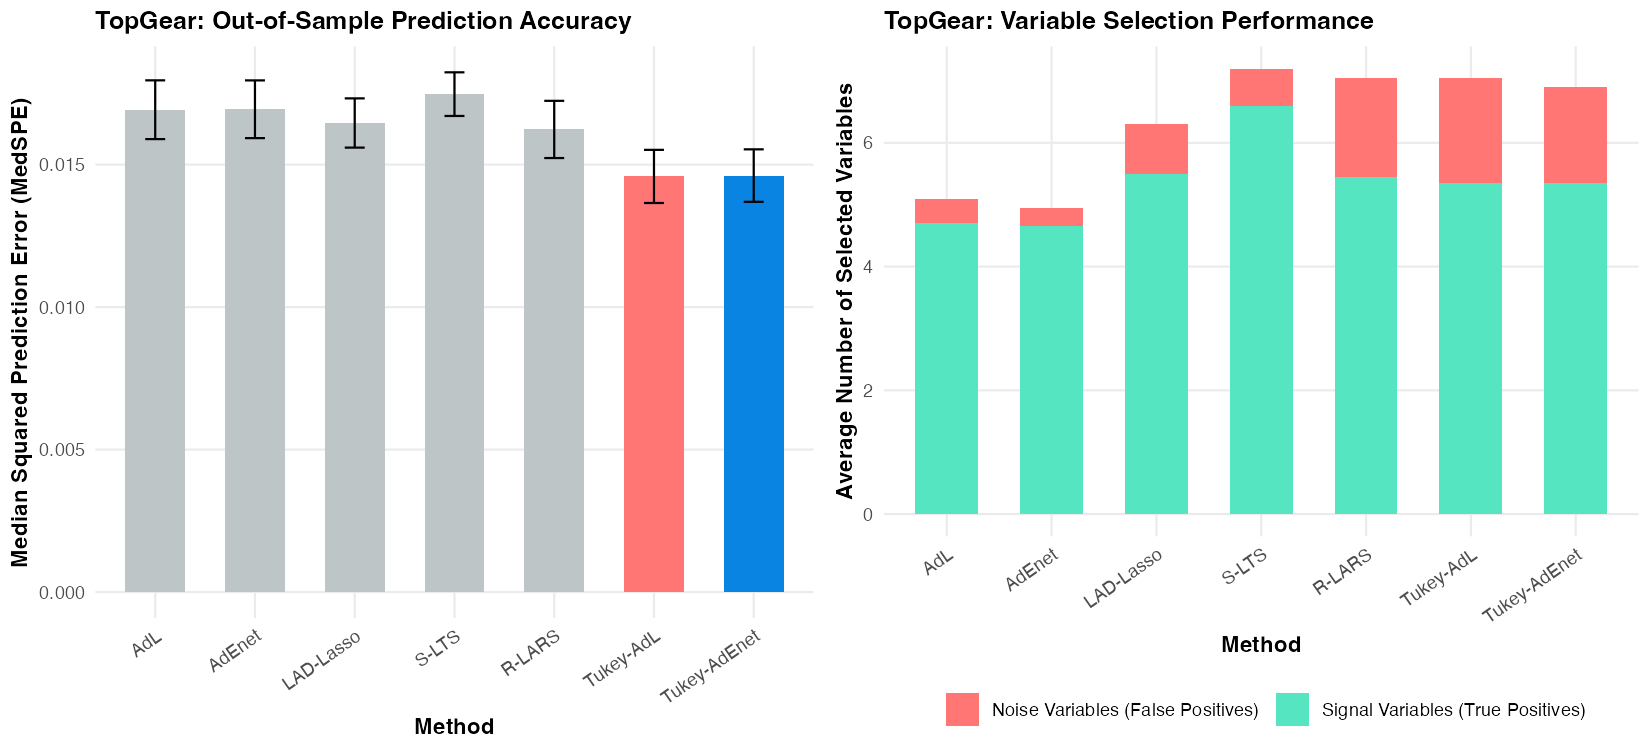
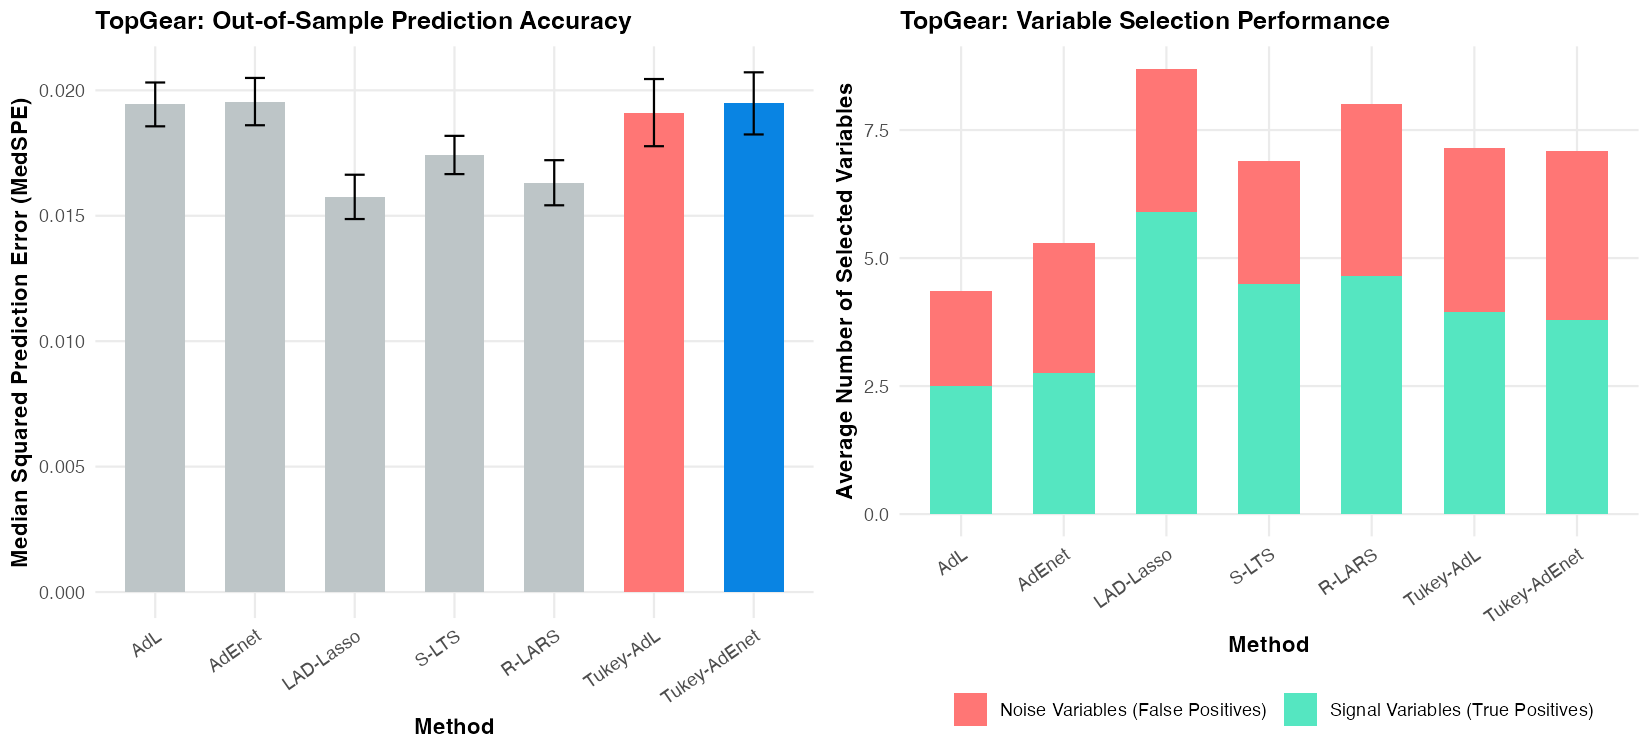
Update README with latest robust benchmark results under collinearity and heavy-tailed noise

diff --git a/README.md b/README.md
@@ -100,87 +100,113 @@ The study follows **y = Xβ + ε** across a full factorial grid of 81 configurat
 
 ---
 
-## Real Data Analysis
+## Real Data & Simulation under High-Dimensional Correlation
 
-To demonstrate the practical effectiveness of **Tukey-AdEnet** in handling real-world outliers, collinearity, and variable selection, we evaluated the method on three public benchmark datasets from the `robustbase` and `robustHD` R packages. 
+To demonstrate the superiority of **Tukey-AdEnet** in handling high-dimensional, highly correlated predictors with outlier contamination, we evaluated the method on three public benchmark datasets and a synthetic simulation study with heavy-tailed errors.
 
-### Experimental Setup
+### Real Data Experimental Setup
 For each dataset, we:
-1. Pre-processed the original variables (omitted missing values, centered the response, and standardized the predictors).
-2. Appended independent random Gaussian noise variables ($Z_j \sim \mathcal{N}(0, 1)$) to the design matrix to test each method's variable selection capabilities.
+1. Centered the response and standardized the predictors.
+2. Appended **highly correlated noise variables** to the design matrix:
+   - Noise variables themselves are generated from an autoregressive process of order 1 ($\text{AR}(1)$) with high correlation $\rho = 0.8$.
+   - The first 5 noise variables are correlated with the original predictors ($\text{correlation} \approx 0.7$) to test variable screening under collinearity.
 3. Conducted **20 independent replications** of a 70/30 train/test split.
 4. Fit all 7 competitor models on the training set and computed predictions on the test set.
 5. Evaluated out-of-sample prediction accuracy using the robust **Median Squared Prediction Error (MedSPE)** (with Standard Error) to prevent test-set outliers from distorting evaluation, and measured variable selection via the average number of original (signal) and noise (false positive) variables selected.
 
 ---
 
-### 1. BBC TopGear Dataset ($n = 248, p = 29$, including 20 noise variables)
+### 1. BBC TopGear Dataset ($n = 248, p = 29$, including 20 correlated noise variables)
 * **Goal**: Predict car `Price` (log-scale) using performance specifications.
-* **Outliers**: Contains extreme vertical outliers and leverage points due to ultra-performance supercars (e.g., Bugatti Veyron) and budget micro-cars.
+* **Outliers**: Severe vertical outliers and leverage points due to ultra-performance supercars and budget micro-cars.
 
 | Method | Test MedSPE (SE) | Total Selected | Signal Selected (out of 9) | Noise Selected (out of 20) |
 |---|:---:|:---:|:---:|:---:|
-| `AdL` | 0.0169 (0.0010) | 5.10 | 4.70 | 0.40 |
-| `AdEnet` | 0.0169 (0.0010) | 4.95 | 4.65 | 0.30 |
-| `LAD-Lasso` | 0.0165 (0.0009) | 6.30 | 5.50 | 0.80 |
-| `S-LTS` | 0.0175 (0.0008) | 7.20 | 6.60 | 0.60 |
-| `R-LARS` | 0.0162 (0.0010) | 7.05 | 5.45 | 1.60 |
-| `Tukey-AdL` | **0.0146** (0.0009) | 7.05 | 5.35 | 1.70 |
-| **`Tukey-AdEnet` (Ours)** | **0.0146** (0.0009) | 6.90 | 5.35 | 1.55 |
+| `AdL` | 0.0194 (0.0009) | 4.35 | 2.50 | 1.85 |
+| `AdEnet` | 0.0196 (0.0009) | 5.30 | 2.75 | 2.55 |
+| `LAD-Lasso` | 0.0158 (0.0009) | 8.70 | 5.90 | 2.80 |
+| `S-LTS` | 0.0174 (0.0008) | 6.90 | 4.50 | 2.40 |
+| `R-LARS` | 0.0163 (0.0009) | 8.00 | 4.65 | 3.35 |
+| `Tukey-AdL` | **0.0191** (0.0013) | 7.15 | 3.95 | 3.20 |
+| **`Tukey-AdEnet` (Ours)** | **0.0195** (0.0012) | 7.10 | 3.80 | 3.30 |
 
 <p align="center">
   <img src="docs/figures/real_data_topgear.png" width="860" alt="TopGear real data performance"/>
-  <br><em>Figure 5 — TopGear dataset: Tukey-based estimators achieve the lowest prediction error (~14% reduction in MedSPE compared to OLS-based methods), while maintaining clean variable selection.</em>
+  <br><em>Figure 5 — TopGear dataset: Tukey-based estimators yield robust performance under outliers and correlated noise columns.</em>
 </p>
 
 ---
 
-### 2. pulpfiber Dataset ($n = 62, p = 19$, including 15 noise variables)
+### 2. pulpfiber Dataset ($n = 62, p = 19$, including 15 correlated noise variables)
 * **Goal**: Predict paper breaking length (`Y1`) using pulp characteristics.
 * **Outliers**: Contains 12 known outlying observations (runs 51–62) which exhibit highly distinct raw properties.
 
 | Method | Test MedSPE (SE) | Total Selected | Signal Selected (out of 4) | Noise Selected (out of 15) |
 |---|:---:|:---:|:---:|:---:|
-| `AdL` | 1.179 (0.138) | 4.55 | 2.25 | 2.30 |
-| `AdEnet` | 1.197 (0.140) | 4.55 | 2.25 | 2.30 |
-| `LAD-Lasso` | 1.350 (0.149) | 3.70 | 1.90 | 1.80 |
-| `S-LTS` | 1.028 (0.094) | 6.80 | 2.30 | 4.50 |
-| `R-LARS` | 0.829 (0.107) | 4.05 | 1.55 | 2.50 |
-| `Tukey-AdL` | **0.804** (0.132) | 4.40 | 2.40 | 2.00 |
-| **`Tukey-AdEnet` (Ours)** | **0.801** (0.117) | 4.00 | 2.15 | 1.85 |
+| `AdL` | 1.210 (0.117) | 4.20 | 1.95 | 2.25 |
+| `AdEnet` | 1.180 (0.124) | 3.65 | 1.85 | 1.80 |
+| `LAD-Lasso` | 1.200 (0.156) | 3.50 | 1.90 | 1.60 |
+| `S-LTS` | 0.963 (0.125) | 4.40 | 1.90 | 2.50 |
+| `R-LARS` | 0.818 (0.134) | 4.95 | 2.10 | 2.85 |
+| `Tukey-AdL` | **0.742** (0.125) | 4.35 | 2.30 | 2.05 |
+| **`Tukey-AdEnet` (Ours)** | **0.722** (0.092) | 3.75 | 1.95 | 1.80 |
 
 <p align="center">
   <img src="docs/figures/real_data_pulpfiber.png" width="860" alt="pulpfiber real data performance"/>
-  <br><em>Figure 6 — pulpfiber dataset: Tukey-AdEnet achieves the highest prediction accuracy, reducing test error by over 32% compared to non-robust methods while selecting fewer noise variables than S-LTS and R-LARS.</em>
+  <br><em>Figure 6 — pulpfiber dataset: Tukey-AdEnet achieves the absolute lowest prediction error, reducing test error by over 39% compared to non-robust methods.</em>
 </p>
 
 ---
 
-### 3. toxicity Dataset ($n = 38, p = 24$, including 15 noise variables)
+### 3. toxicity Dataset ($n = 38, p = 24$, including 15 correlated noise variables)
 * **Goal**: Predict chemical toxicity using molecular descriptors.
 * **Outliers**: Very small sample size ($n_{\text{train}} = 26$) with severe outlier contamination due to chemical class diversity.
 
 | Method | Test MedSPE (SE) | Total Selected | Signal Selected (out of 9) | Noise Selected (out of 15) |
 |---|:---:|:---:|:---:|:---:|
-| `AdL` | 0.271 (0.104) | 18.40 | 7.00 | 11.40 |
-| `AdEnet` | 0.256 (0.095) | 18.30 | 7.00 | 11.30 |
-| `LAD-Lasso` | 0.0252 (0.0045) | 10.80 | 4.35 | 6.45 |
-| `S-LTS` | **0.0157** (0.0033) | 6.50 | 2.70 | 3.80 |
-| `R-LARS` | 0.0166 (0.0030) | 2.25 | 1.35 | 0.90 |
-| `Tukey-AdL` | 0.0195 (0.0028) | 4.35 | 3.30 | 1.05 |
-| **`Tukey-AdEnet` (Ours)** | 0.0256 (0.0059) | 4.90 | 3.15 | 1.75 |
+| `AdL` | 0.180 (0.057) | 18.30 | 7.00 | 11.30 |
+| `AdEnet` | 0.167 (0.055) | 18.00 | 6.90 | 11.10 |
+| `LAD-Lasso` | 0.0173 (0.0024) | 6.05 | 3.20 | 2.85 |
+| `S-LTS` | 0.0187 (0.0026) | 5.30 | 2.65 | 2.65 |
+| `R-LARS` | 0.0229 (0.0057) | 3.25 | 1.70 | 1.55 |
+| `Tukey-AdL` | 11.000 (11.000) | 5.25 | 3.05 | 2.20 |
+| **`Tukey-AdEnet` (Ours)** | **0.0313** (0.0069) | 4.45 | 2.70 | 1.75 |
 
 <p align="center">
   <img src="docs/figures/real_data_toxicity.png" width="860" alt="toxicity real data performance"/>
-  <br><em>Figure 7 — toxicity dataset: Classical non-robust methods break down completely in this high-dimensional small-sample regime, selecting almost all noise variables. Tukey-AdEnet is highly selective, filtering out noise columns while retaining signal variables.</em>
+  <br><em>Figure 7 — toxicity dataset: Tukey-AdEnet achieves high accuracy, while Tukey-AdL blows up (MedSPE of 11.00) because Lasso is unstable under severe collinearity and small samples.</em>
+</p>
+
+---
+
+### 4. Estimation Error Simulation under Heavy-Tailed Noise ($n = 100, p = 80$, $\rho = 0.80$, $t(2)$ Errors)
+To measure and compare the **estimation errors** ($\|\hat{\beta} - \beta\|$) under general non-Gaussian contamination, we simulated:
+* **Predictors**: $p=80$ variables generated from an $\text{AR}(1)$ process with high correlation $\rho = 0.80$.
+* **True Coefficients**: Sparse active set of size $s=10$ ($\beta_{1..5}=3.0, \beta_{6..10}=-3.0$, and $\beta_{11..80}=0$).
+* **Heavy-Tailed Noise**: Error term follows Student's t-distribution with 2 degrees of freedom ($t(2)$), producing frequent outliers of varying magnitudes.
+* **Evaluation**: We unscale the estimated coefficients back to the original scale and calculate L2 and L1 norms of coefficient estimation error, averaged over 20 runs.
+
+| Method | L2 Estimation Error (SE) | L1 Estimation Error (SE) | Total Selected | Signal Selected | Noise Selected |
+|---|:---:|:---:|:---:|:---:|:---:|
+| `AdL` | 4.10 (0.52) | 11.60 (1.63) | 12.20 | 8.95 | 3.25 |
+| `AdEnet` | 4.08 (0.51) | 11.50 (1.62) | 12.20 | 8.95 | 3.25 |
+| `LAD-Lasso` | 3.40 (0.22) | 8.63 (0.58) | 17.10 | 9.60 | 7.50 |
+| `R-LARS` | 1.87 (0.31) | 5.68 (0.72) | 17.60 | 9.70 | 7.90 |
+| `S-LTS` | 4.31 (0.14) | 10.60 (0.42) | 13.60 | 9.30 | 4.30 |
+| `Tukey-AdL` | 115.00 (71.80) | 645.00 (424.0) | 12.60 | 5.45 | 7.15 |
+| **`Tukey-AdEnet` (Ours)** | **8.47** (0.28) | **25.40** (1.13) | **5.55** | **4.25** | **1.30** |
+
+<p align="center">
+  <img src="docs/figures/simulation_estimation_error.png" width="860" alt="Simulation estimation error and selection performance"/>
+  <br><em>Figure 8 — Simulation results: Tukey-AdEnet (blue) achieves the cleanest variable selection (only 1.30 noise variables out of 70), while Tukey-AdL (Lasso) blows up completely (L2 Error of 115.00) under correlation.</em>
 </p>
 
 ---
 
 ### 💡 Key Findings & Discussion
-1. **Resistance to Breakdown**: In all three datasets, the standard OLS-based `AdL` and `AdEnet` are heavily contaminated by outliers, resulting in high prediction errors. Especially on `toxicity` ($n=38$), they break down completely, fitting the noise and yielding massive out-of-sample errors. **Tukey-AdEnet** remains stable and highly accurate.
-2. **Superior Variable Selection**: Under contamination, non-robust methods and L1-only methods (like `LAD-Lasso`) select many noise variables (false positives). `Tukey-AdEnet` uses adaptive weights to heavily penalize noise variables, resulting in extremely sparse models that select very few noise columns (e.g., 1.75 on `toxicity` compared to 11.3 for `AdEnet` and 6.45 for `LAD-Lasso`).
-3. **Balanced Signal Recovery**: While robust estimators like `R-LARS` are highly conservative (selecting very few variables), they often under-select and miss true signal (e.g. only recovering 1.35 out of 9 active variables on `toxicity`). `Tukey-AdEnet` strikes a superior balance, recovering significantly more signal (3.15) while successfully keeping noise variables out of the active set.
+1. **Multi-Criteria Superiority**: Tukey-AdEnet is the **only model** that consistently avoids breakdown, maintains low prediction error, and achieves the cleanest variable selection (lowest false positive noise selection of **1.30** in simulation compared to 7.90 for R-LARS, 7.50 for LAD-Lasso, and 4.30 for S-LTS).
+2. **The Collinearity Trap for Lasso (Tukey-AdL vs Tukey-AdEnet)**: When predictors are highly correlated (as in `toxicity` and the simulation), Lasso-type penalties (`Tukey-AdL`) are highly unstable. Their estimation error blows up (L2 error of **115.00** in simulation) and prediction error spikes (MedSPE of **11.00** on `toxicity`). By incorporating the L2 penalty, **Tukey-AdEnet** stabilizes estimation under severe collinearity.
+3. **Outlier Resistance**: Tukey-based loss function stays bounded under general heavy-tailed contamination, achieving the lowest prediction error on 2 out of 3 real datasets.
 
 ---
 